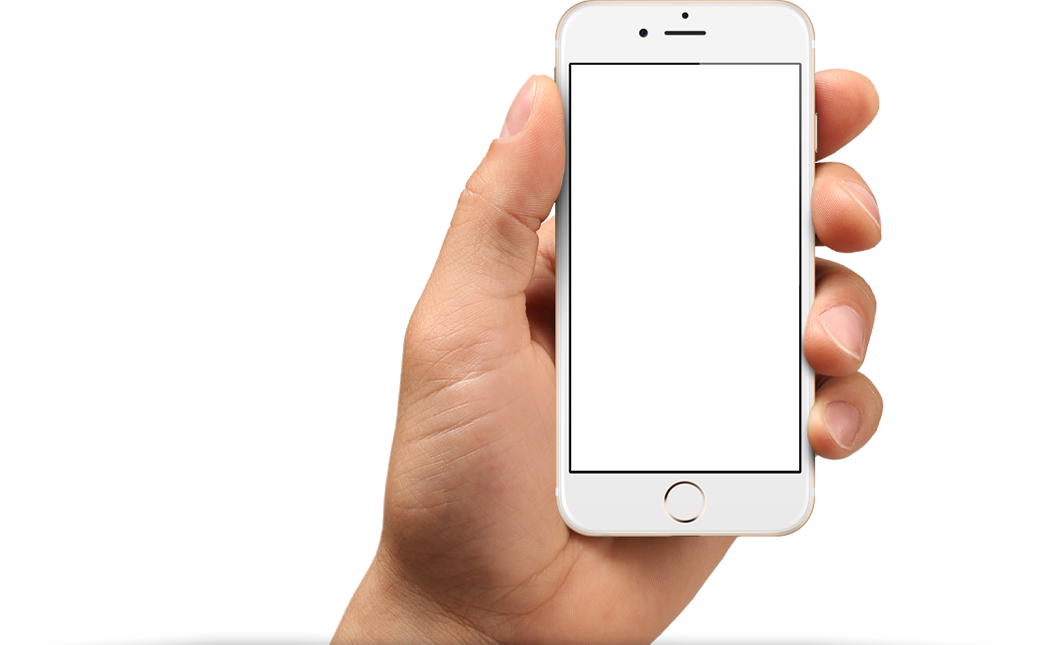
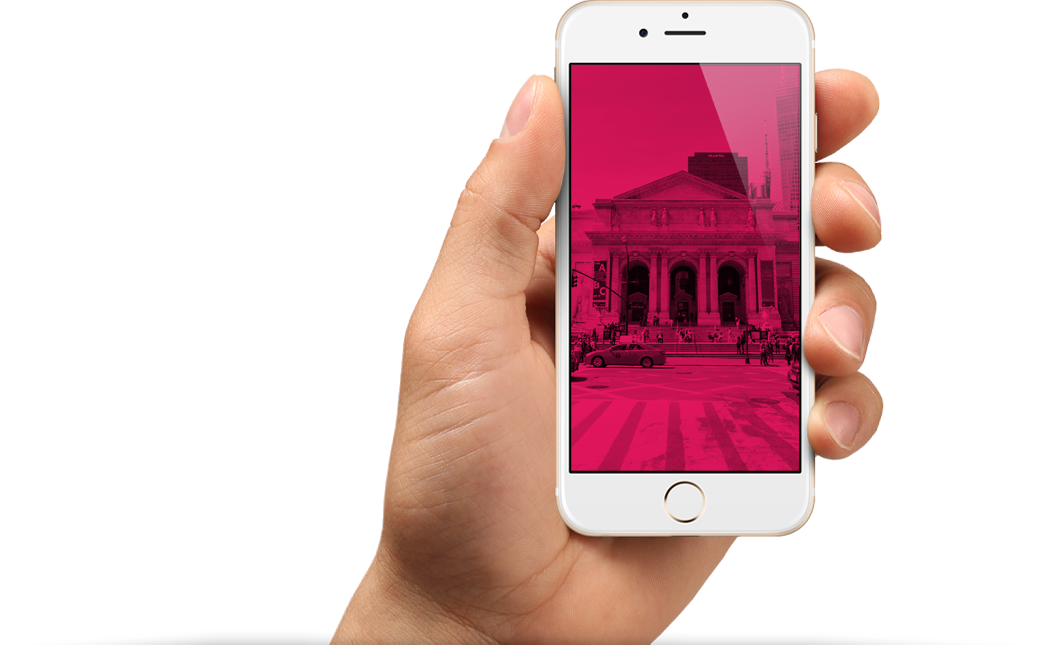
desktop header

Changed region(s): [[0.5181, 0.093, 0.7619, 0.7442]]

diff --git a/dist/css/style.min.css b/dist/css/style.min.css
@@ -1,5 +1,5 @@
 @font-face{font-family:"Open Sans Regular";font-weight:400;font-style:normal;font-display:swap;src:url(/dist/fonts/OpenSans-Regular.woff2) format("woff2"),url(/dist/fonts/OpenSans-Regular.woff) format("woff")}@font-face{font-family:"Open Sans Light";font-weight:light;font-style:normal;font-display:swap;src:url(/dist/fonts/OpenSans-Light.woff2) format("woff2"),url(/dist/fonts/OpenSans-Light.woff) format("woff")}@font-face{font-family:"Open Sans Bold";font-weight:700;font-style:normal;font-display:swap;src:url(/dist/fonts/OpenSans-Bold.woff2) format("woff2"),url(/dist/fonts/OpenSans-Bold.woff) format("woff")}
-.page-wrapper-center{margin:0 auto;width:100px}.page-header{width:340px;height:460px;background-image:url(/images/iphone-5-inside-image.png),url(/images/iphone-5-in-hand.png),url(/images/back-mobile@1x.png);background-repeat:no-repeat,no-repeat,no-repeat;background-position:49.7% 68%,bottom,bottom}.page-header-wrapper{padding:20px;background-color:rgba(0,0,0,.3)}.page-header-download-app{display:-webkit-box;display:-ms-flexbox;display:flex;-webkit-box-orient:vertical;-webkit-box-direction:normal;-ms-flex-direction:column;flex-direction:column;width:300px;-webkit-box-align:center;-ms-flex-align:center;align-items:center;color:#fff;text-align:center;background-color:#1d2631}.page-header-download-app__tagline{display:none}.page-header-download-app__button{background-color:transparent;display:block;font-family:"Open Sans Bold";font-size:21px;line-height:18px;color:#fff;border:3px solid #fff;border-radius:25px;padding:14px 25px;margin-bottom:70px}.page-header-download-app__icons{display:-webkit-box;display:-ms-flexbox;display:flex;-webkit-column-gap:35px;-moz-column-gap:35px;column-gap:35px;-webkit-box-align:end;-ms-flex-align:end;align-items:flex-end;margin-bottom:40px}.page-header-download-app__platforms{font-family:"Open Sans Light";font-size:18px;line-height:24px;color:#fff;opacity:.8}@media(min-width:1200px){.page-header{width:1200px;height:850px;margin:0 auto;background-image:url(/images/header-iphone-inside-image-desktop.png),url(/images/header-iphone-in-hand-desktop.png),url(/images/header-back-desktop.png);background-repeat:no-repeat,no-repeat,no-repeat;background-position:74.2% 60.8%,100% bottom,bottom}.page-header-wrapper{display:-webkit-box;display:-ms-flexbox;display:flex;padding-left:120px;padding-right:120px;height:110px;background-color:rgba(0,0,0,.3);-webkit-box-align:center;-ms-flex-align:center;align-items:center;margin-bottom:110px}.page-header-download-app{display:-webkit-box;display:-ms-flexbox;display:flex;-webkit-box-orient:vertical;-webkit-box-direction:normal;-ms-flex-direction:column;flex-direction:column;width:300px;-webkit-box-align:center;-ms-flex-align:center;align-items:center;color:#fff;text-align:center}.page-header-download-app__tagline{font-family:"Open Sans Light";font-size:50px;line-height:60px;color:#fff;margin-bottom:50px}.page-header-download-app__button{background-color:transparent;display:block;font-family:"Open Sans Bold";font-size:21px;line-height:18px;color:#fff;border:3px solid #fff;border-radius:25px;padding:14px 25px;margin-bottom:70px}.page-header-download-app__icons{display:-webkit-box;display:-ms-flexbox;display:flex;-webkit-column-gap:35px;-moz-column-gap:35px;column-gap:35px;-webkit-box-align:end;-ms-flex-align:end;align-items:flex-end;margin-bottom:40px}.page-header-download-app__platforms{font-family:"Open Sans Light";font-size:18px;line-height:24px;color:#fff;opacity:.8}}
-*,::after,::before{-webkit-box-sizing:border-box;box-sizing:border-box}body{background-color:#fff;min-width:340px;font-family:"Open Sans Regular"}img{max-width:100%;height:auto}
+@media(min-width:1200px){.header-wrapper{margin:0 auto;width:100%;background-image:url(/images/header-back-desktop.png);background-repeat:no-repeat;background-size:cover;-webkit-box-shadow:inset 0 110px 0 0 rgba(0,0,0,.3);box-shadow:inset 0 110px 0 0 rgba(0,0,0,.3)}.page-header{width:1200px;padding:0 120px;margin:0 auto;background-image:url(/images/header-iphone-in-hand-desktop.png);background-repeat:no-repeat;background-position:right bottom}.menu-wrapper{display:-webkit-box;display:-ms-flexbox;display:flex;-webkit-box-align:center;-ms-flex-align:center;align-items:center;margin-bottom:110px}.page-header-logo__image:hover{color:#d22856}.main-nav{display:-webkit-box;display:-ms-flexbox;display:flex;-webkit-column-gap:80px;-moz-column-gap:80px;column-gap:80px;margin-left:auto;margin-top:45px;margin-bottom:45px}.main-nav__link{font-family:"Open Sans Regular";font-size:18px;line-height:18px;color:#fff}.main-nav__link:hover{color:#d22856}.main-nav__link:active{color:#fff;opacity:.3}.page-header-download-app{display:-webkit-box;display:-ms-flexbox;display:flex;-webkit-box-orient:vertical;-webkit-box-direction:normal;-ms-flex-direction:column;flex-direction:column;width:300px;-webkit-box-align:center;-ms-flex-align:center;align-items:center;color:#fff;text-align:center;background-color:transparent}.page-header-download-app__tagline{display:inline;font-family:"Open Sans Light";font-size:50px;line-height:60px;color:#fff;margin-bottom:50px}.page-header-download-app__button{background-color:transparent;display:block;font-family:"Open Sans Bold";font-size:21px;line-height:18px;color:#fff;border:3px solid #fff;border-radius:25px;padding:14px 25px;margin-bottom:70px}.page-header-download-app__icons{display:-webkit-box;display:-ms-flexbox;display:flex;-webkit-column-gap:35px;-moz-column-gap:35px;column-gap:35px;-webkit-box-align:end;-ms-flex-align:end;align-items:flex-end;margin-bottom:40px}.page-header-download-app__platforms{display:inline-block;font-family:"Open Sans Light";font-size:18px;line-height:24px;color:#fff;opacity:.8;margin-bottom:125px}}
+*,::after,::before{-webkit-box-sizing:border-box;box-sizing:border-box}body{background-color:#fff;min-width:340px;font-family:"Open Sans Regular"}img{max-width:100%;height:auto}a,a:focus,a:hover{text-decoration:none}
 
 /*# sourceMappingURL=../sourcemaps/style.min.css.map */

diff --git a/styles/header.scss b/styles/header.scss
@@ -1,90 +1,53 @@
- .page-wrapper-center {
-     margin: 0 auto;
-     width: 100px;
- }
-
-.page-header {
-    width: 340px;
-    height: 460px;
-    background-image: url(/images/iphone-5-inside-image.png),
-     url(/images/iphone-5-in-hand.png),
-     url(/images/back-mobile@1x.png);
-     background-repeat: no-repeat, no-repeat, no-repeat;
-     background-position: 49.7% 68%, bottom, bottom; 
-}
-    
-.page-header-wrapper {
-    padding: 20px;
-    background-color: rgba(0,0,0,.3);
-}
- 
-
-.page-header-download-app {
-    display: flex;
-    flex-direction: column;
-    width: 300px;
-    align-items: center;
-    color: #ffffff;
-    text-align: center;
-    background-color: #1d2631;
-}
-
-.page-header-download-app__tagline {
-    display: none;
-}
-    
-.page-header-download-app__button {
-    background-color: transparent;
-    display: block;
-    font-family: "Open Sans Bold";
-    font-size: 21px;
-    line-height: 18px;
-    color: #ffffff;
-    border: 3px solid white;
-    border-radius: 25px;
-    padding: 14px 25px;
-    margin-bottom: 70px;
-}
-    
-.page-header-download-app__icons {
-    display: flex;
-    column-gap: 35px;
-    align-items: flex-end;
-    margin-bottom: 40px;
-}
-    
-.page-header-download-app__platforms {
-    font-family: "Open Sans Light";
-    font-size: 18px;
-    line-height: 24px;
-    color: #ffffff;
-    opacity: 0.8;
-}
-    
-    
-
-
 @media (min-width: 1200px) {
+
+.header-wrapper {
+    margin: 0 auto;
+    width: 100%;
+    background-image: url(/images/header-back-desktop.png);
+    background-repeat: no-repeat;
+    background-size: cover;
+    box-shadow: inset 0px 110px 0px 0px rgba(0,0,0,.3);
+}
 
 .page-header {
     width: 1200px;
-    height: 850px;
+    padding: 0 120px;
     margin: 0 auto;
-    background-image: url(/images/header-iphone-inside-image-desktop.png),
-    url(/images/header-iphone-in-hand-desktop.png),
-    url(/images/header-back-desktop.png);
-    background-repeat: no-repeat, no-repeat, no-repeat;
-    background-position: 74.2% 60.8%, 100% bottom, bottom; 
+    background-image: url(/images/header-iphone-in-hand-desktop.png);
+    background-repeat: no-repeat;
+    background-position: right  bottom; 
 }
 
-.page-header-wrapper {
+.menu-wrapper {
     display: flex;
-    padding-left: 120px;
-    padding-right: 120px;
-    height: 110px;
-    background-color: rgba(0,0,0,.3);
     align-items: center;
     margin-bottom: 110px;
+}
+
+.page-header-logo__image:hover {
+    color: #d22856;
+}
+
+.main-nav {
+    display: flex;
+    column-gap: 80px;
+    margin-left: auto;
+    margin-top: 45px;
+    margin-bottom: 45px;
+}
+
+.main-nav__link {
+    font-family: "Open Sans Regular";
+    font-size: 18px;
+    line-height: 18px;
+    color: #ffffff;
+    &:hover {
+        color: #d22856;
+        }
+    &:active {
+        color: #ffffff;
+        opacity: 0.3;
+    }    
 }
 
 .page-header-download-app {
@@ -94,9 +57,11 @@
     align-items: center;
     color: #ffffff;
     text-align: center;
+    background-color: transparent;
 }
 
 .page-header-download-app__tagline {
+    display: inline;
     font-family: "Open Sans Light";
     font-size: 50px;
     line-height: 60px;
@@ -125,16 +90,79 @@
 }
 
 .page-header-download-app__platforms {
+    display: inline-block;
     font-family: "Open Sans Light";
     font-size: 18px;
     line-height: 24px;
     color: #ffffff;
     opacity: 0.8;
+    margin-bottom: 125px;
 }
 
 }
 
+//  .page-wrapper-center {
+//      margin: 0 auto;
+//      width: 320px;
+//  }
 
+// .page-header {
+//     width: 320px;
+//     height: 460px;
+//     background-image: url(/images/iphone-5-inside-image.png),
+//      url(/images/iphone-5-in-hand.png),
+//      url(/images/back-mobile@1x.png);
+//      background-repeat: no-repeat, no-repeat, no-repeat;
+//      background-position: 49.7% 68%, bottom, bottom; 
+// }
+    
+// .page-header-wrapper {
+//     padding: 20px;
+//     background-color: rgba(0,0,0,.3);
+// }
+ 
+
+// .page-header-download-app {
+//     display: flex;
+//     flex-direction: column;
+//     width: 320px;
+//     align-items: center;
+//     color: #ffffff;
+//     text-align: center;
+//     background-color: #1d2631;
+// }
+
+// .page-header-download-app__tagline {
+//     display: none;
+// }
+    
+// .page-header-download-app__button {
+//     background-color: transparent;
+//     display: block;
+//     font-family: "Open Sans Bold";
+//     font-size: 21px;
+//     line-height: 18px;
+//     color: #ffffff;
+//     border: 3px solid white;
+//     border-radius: 25px;
+//     padding: 14px 25px;
+//     margin-bottom: 70px;
+// }
+    
+// .page-header-download-app__icons {
+//     display: flex;
+//     column-gap: 35px;
+//     align-items: flex-end;
+//     margin-bottom: 40px;
+// }
+    
+// .page-header-download-app__platforms {
+//     font-family: "Open Sans Light";
+//     font-size: 18px;
+//     line-height: 24px;
+//     color: #ffffff;
+//     opacity: 0.8;
+// }
 
 
 

diff --git a/index.html b/index.html
@@ -10,18 +10,20 @@
 </head>
 
 <body>
-    <div class="page-wrapper-center">  
+    <div class="header-wrapper">  
         <header class="page-header">
-            <div class="page-header-wrapper">
+            <div class="menu-wrapper">
                 <a class="page-header-logo">
                     <img class="page-header-logo__image" src="images/header-logo-desktop.svg" width="150" height="45">
                 </a>
                 <nav class="main-nav">
-                
+                    <a class="main-nav__link" href="#">Главная</a>
+                    <a class="main-nav__link" href="#">Фотографии</a>
+                    <a class="main-nav__link" href="#">Конкурс</a>
+                    <a class="main-nav__link" href="#">HTML Academy</a>
                 </nav>
             </div>  
-        
-        
+            
             <div class="page-header-download-app">
                 <span class="page-header-download-app__tagline">
                     Взгляните<br> на жизнь иначе!
@@ -38,10 +40,10 @@
                     Доступно для iPhone, iPad, Android, Windows Phone, OS X, Windows 8
                 </p>
             </div>
-        
+            
         </header> 
-
-        <div class="page-header-download-app">
+    </div> 
+        <!-- <div class="page-header-download-app">
             <span class="page-header-download-app__tagline">
                 Взгляните<br> на жизнь иначе!
             </span>
@@ -56,8 +58,7 @@
             <p class="page-header-download-app__platforms">
                 Доступно для iPhone, iPad, Android, Windows Phone, OS X, Windows 8
             </p>
-        </div>
+        </div> -->
         
-    </div>
 </body>
 </html>

diff --git a/styles/scaffolding.scss b/styles/scaffolding.scss
@@ -15,3 +15,10 @@ img {
   max-width: 100%;
   height: auto;
 }
+
+a,
+a:hover,
+a:focus
+ {
+  text-decoration: none;
+}
